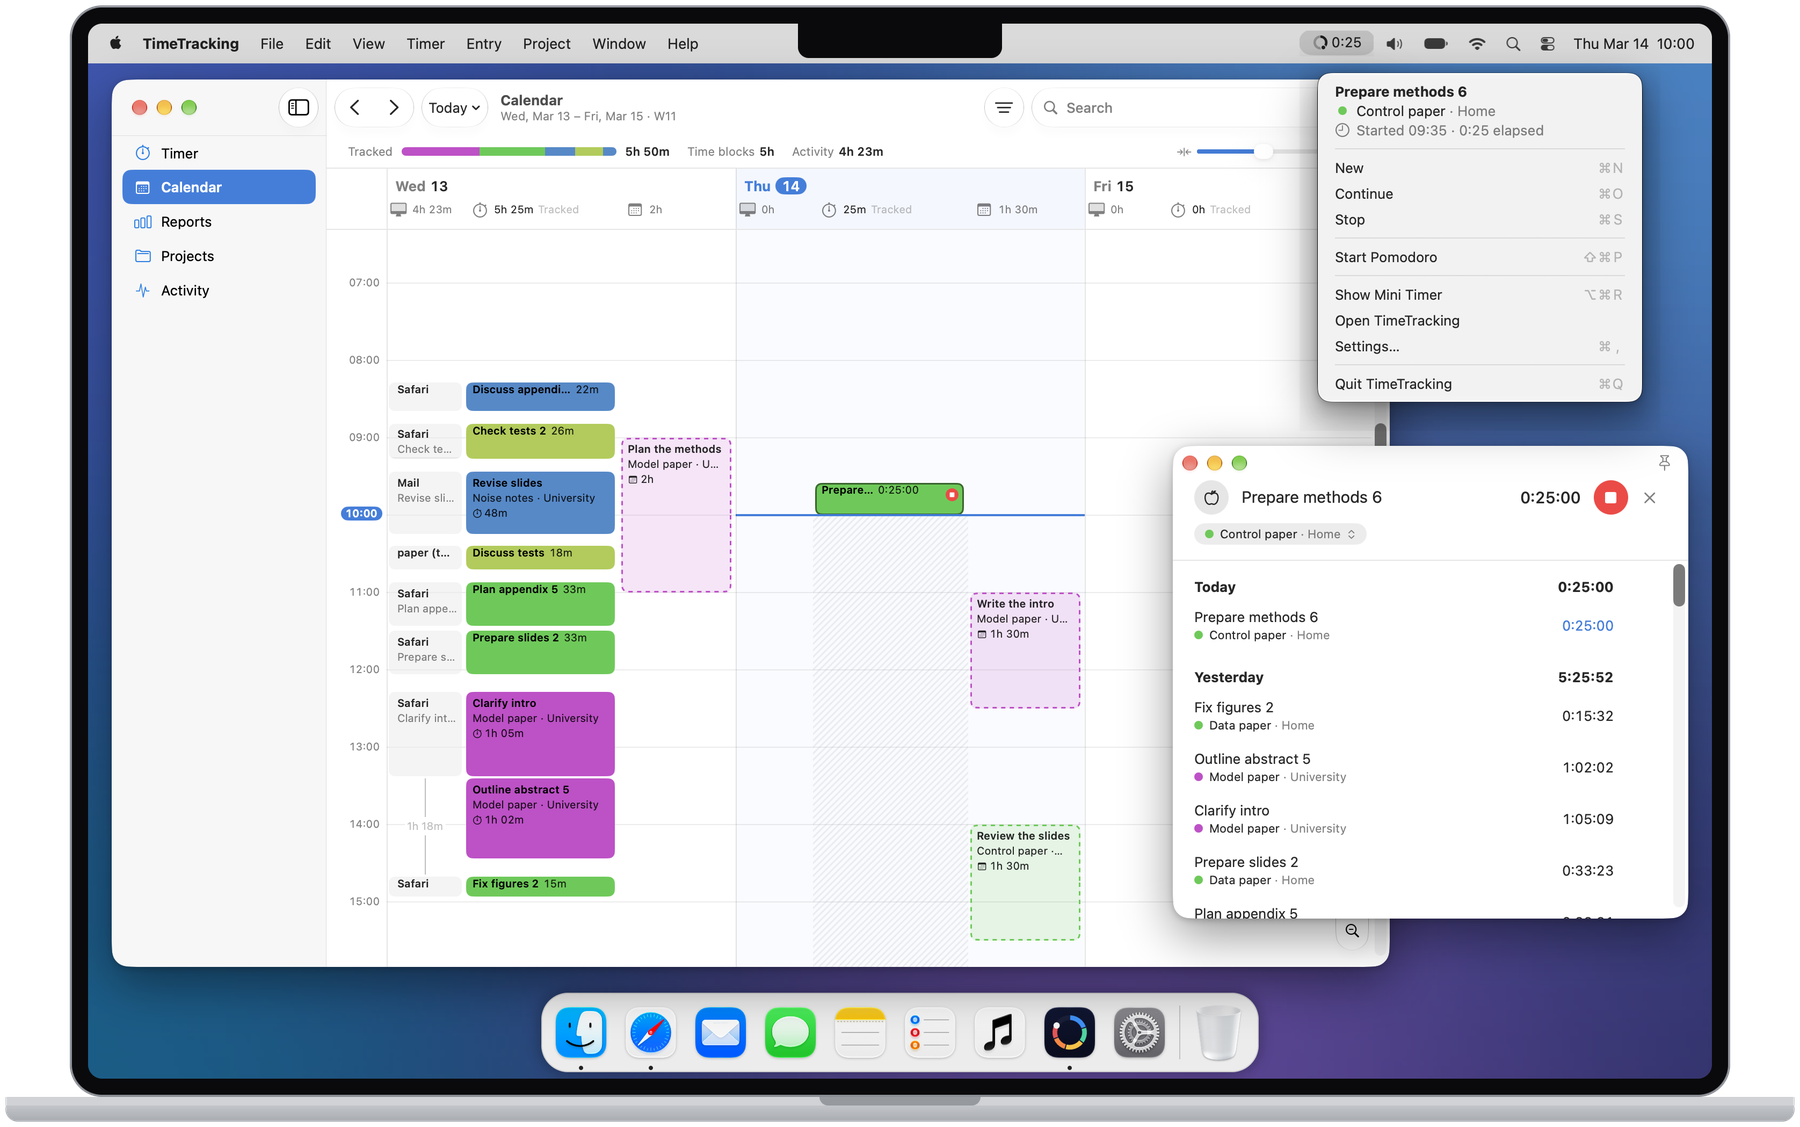
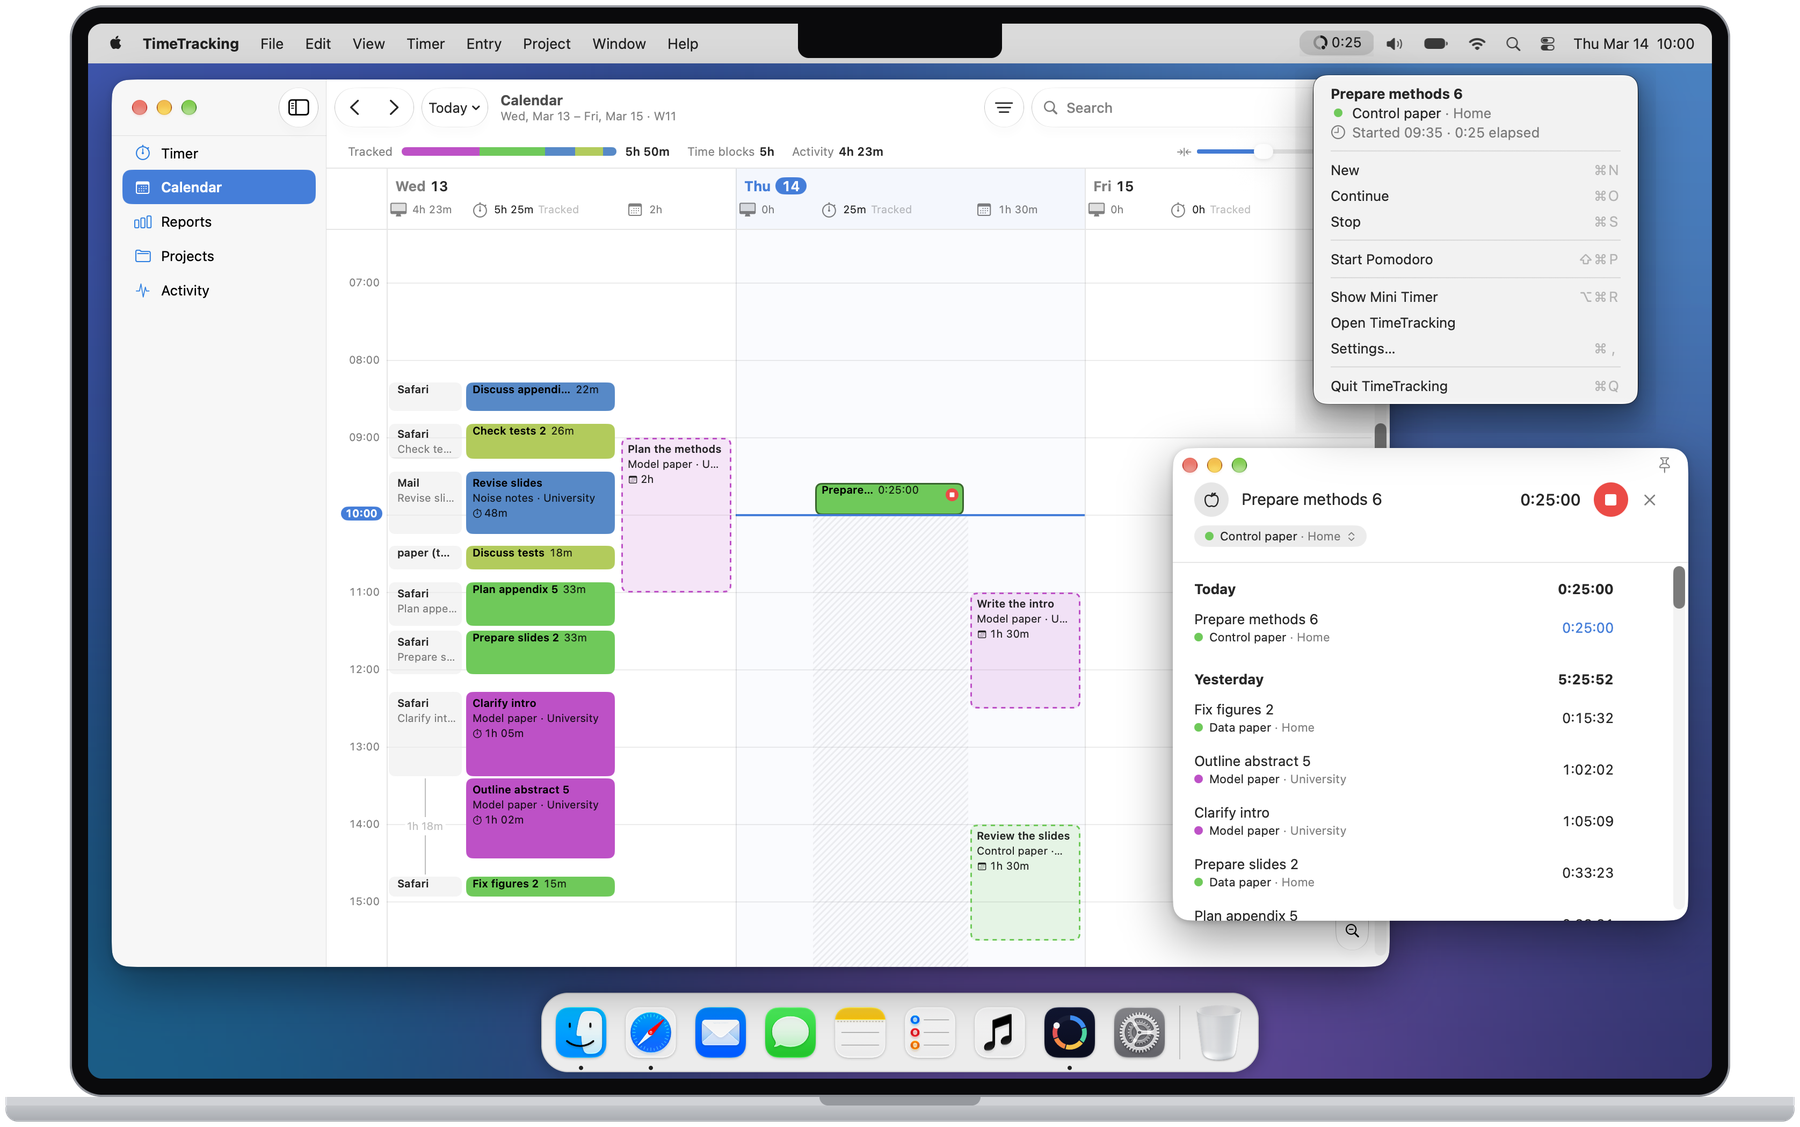
Place the status menu where macOS does
Measured on a real screen, the menu opens 4 points below the bar and 4
points left of its item.

diff --git a/scripts/compose_desktop.py b/scripts/compose_desktop.py
@@ -25,6 +25,10 @@ SCALE = 2
 MENU_BAR_HEIGHT = 37
 MARGIN = 22
 
+# Where macOS puts a status item's menu, measured on a real screen.
+MENU_GAP = 4
+MENU_LEFT_OF_ITEM = 4
+
 DOCK_ICON = 58
 DOCK_GAP = 7
 DOCK_PADDING = 8
@@ -254,8 +258,8 @@ def compose(main_window, mini_timer, status_menu, status_item, app_icon, menus, 
     desktop.alpha_composite(item, (round(item_left) * SCALE, item_top))
 
     place_window(desktop, main, (MARGIN, MENU_BAR_HEIGHT + 15))
-    menu_top = MENU_BAR_HEIGHT + 2
+    menu_top = MENU_BAR_HEIGHT + MENU_GAP
     timer_top = menu_top + menu.height // SCALE + 14
     place_window(desktop, mini, (SCREEN[0] - MARGIN - mini.width // SCALE, timer_top))
-    place_window(desktop, menu, (round(item_left), menu_top))
+    place_window(desktop, menu, (round(item_left) - MENU_LEFT_OF_ITEM, menu_top))
     desktop.convert("RGB").save(output)
